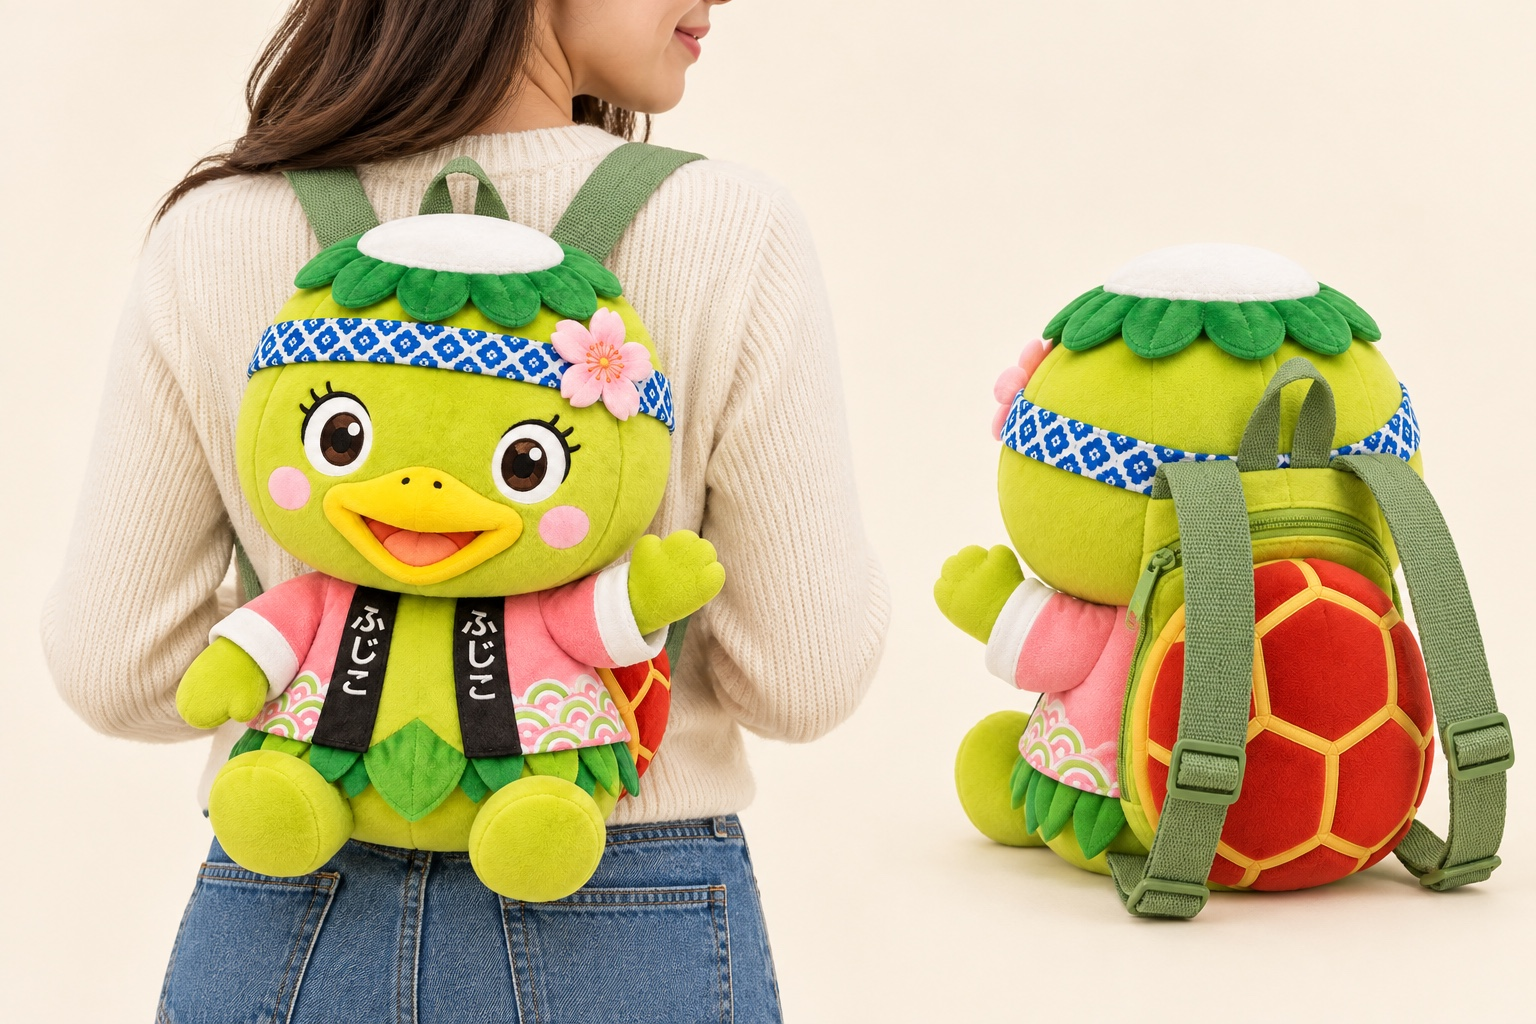
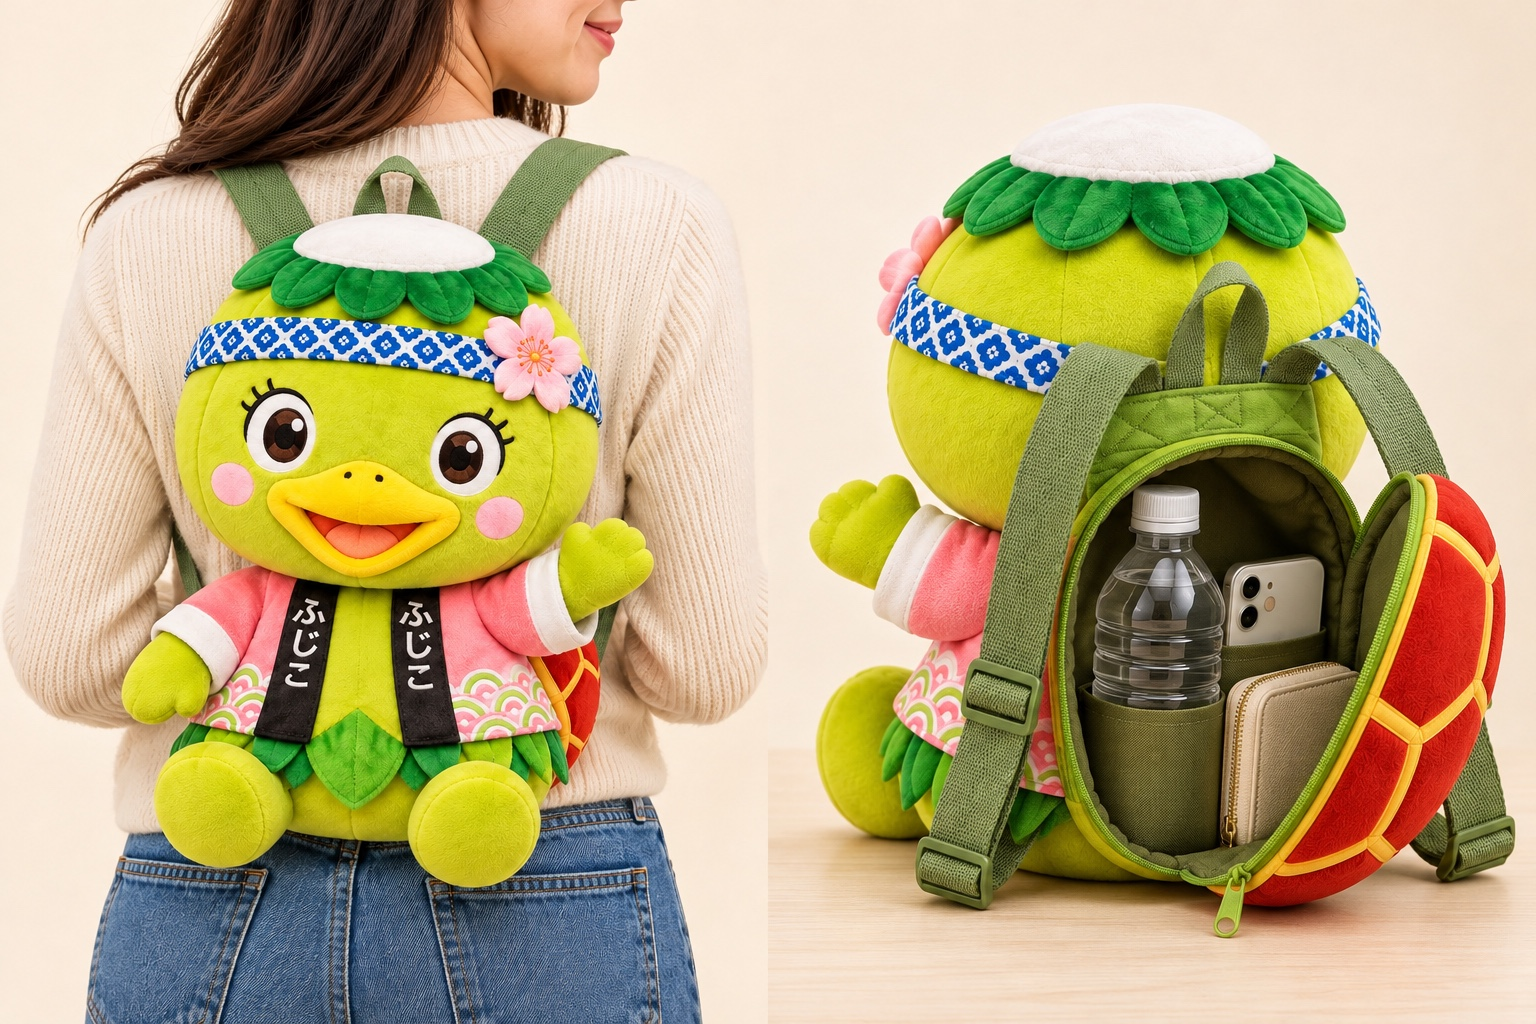
Replace Heartnet Fujiko backpack preview with supplied image

diff --git a/omise-demo/heartnet-fujiko-goods.html b/omise-demo/heartnet-fujiko-goods.html
@@ -28,4 +28,4 @@
 <h3>ふじこグッズを販売してくれるお店を募集しています</h3><p class="goods-sale-copy">ふじこのぬいぐるみ・缶バッジ・リュック・だるま。お店の一角で、志木のおみやげとして紹介してみませんか？</p><p>少量からいろいろな商品を試しながら、一緒にふじこグッズを育ててくれる販売協力店を募集します。取扱商品や販売方法などは、ご相談しながら決めていきます。</p><a class="btn secondary" href="https://line.me/ti/p/pcBfG4PH0m" target="_blank" rel="noopener noreferrer">取扱いのご相談はLINEから →</a><h3>取扱いを相談したいお店〈候補〉</h3><p class="goods-stage">以下は相談先の候補としてご紹介しているお店です。販売・取扱いが決まっているという案内ではありません。</p>
 <div class="goods-shops"><article class="goods-shop"><h3>おうちcafeパン工房</h3><p>国産小麦とホシノ天然酵母を使ったパンや焼き菓子を届けるパン工房。</p><a href="./ouchicafe.html">お店の紹介・場所を見る →</a></article><article class="goods-shop"><h3>ニュータイムス社</h3><p>出版・広告代理・地域情報誌を通じて、地域の情報を届けています。</p><a href="./newtimes.html">お店の紹介・場所を見る →</a></article></div>
 <p class="goods-stage">企画・販売協力店の募集：ハートネット志木。商品化と取扱いの準備が整い次第、販売店をご案内します。</p><div id="goods-article-sharing"></div>
-</section><nav class="panel" aria-label="この記事を読んだ後のメニュー"><a class="btn secondary" href="./heartnet.html">ハートネット志木のページへ →</a><a class="btn secondary" href="./">DXトップへ戻る →</a></nav></main><dialog id="goods-preview-dialog" aria-labelledby="goods-preview-title"><div class="goods-dialog-head"><h2 id="goods-preview-title">ぬいぐるみ</h2><button type="button" id="goods-preview-close" aria-label="画像を閉じる">閉じる ×</button></div><figure class="goods-product-figure"><img src="./goods-fujiko-plush-front.jpeg" width="1122" height="1402" alt="ふじこぬいぐるみの正面イメージ" id="goods-preview-image"><figcaption id="goods-preview-caption">ぬいぐるみ（前）</figcaption></figure><div id="goods-image-switch" aria-label="見る向きを選ぶ"><button type="button" data-goods-view="0" aria-pressed="true">前を見る</button><button type="button" data-goods-view="1" aria-pressed="false">後ろを見る</button></div><p class="goods-preview-note">開発中のイメージ見本です。商品化・仕様・価格・取扱店・販売開始日は未定です。</p></dialog><script>(function(){const dialog=document.getElementById('goods-preview-dialog'),title=document.getElementById('goods-preview-title'),caption=document.getElementById('goods-preview-caption'),image=document.getElementById('goods-preview-image'),views=document.getElementById('goods-image-switch');let opener=null,kind='plush';const products={plush:{name:'ぬいぐるみ',images:[['./goods-fujiko-plush-front.jpeg','ぬいぐるみ（前）'],['./goods-fujiko-plush-back.jpeg','ぬいぐるみ（後ろ）']]},badge:{name:'缶バッジ',images:[['./goods-fujiko-badge.jpeg','缶バッジのデザイン見本']]},backpack:{name:'リュック',images:[['./goods-fujiko-backpack.jpeg','リュックの使用・背面イメージ']]},daruma:{name:'ふじこだるま',images:[['./goods-fujiko-daruma.jpeg','ふじこだるまのイメージ']]}};function show(index){const item=products[kind].images[index];image.src=item[0];image.alt=item[1];image.removeAttribute('width');image.removeAttribute('height');caption.textContent=item[1];views.hidden=products[kind].images.length<2;views.querySelectorAll('button').forEach(function(button){button.setAttribute('aria-pressed',String(Number(button.dataset.goodsView)===index));});}document.querySelectorAll('[data-goods-kind]').forEach(function(button){button.addEventListener('click',function(){opener=button;kind=button.dataset.goodsKind;title.textContent=products[kind].name;show(0);dialog.showModal();dialog.scrollTop=0;});});views.querySelectorAll('button').forEach(function(button){button.addEventListener('click',function(){show(Number(button.dataset.goodsView));});});document.getElementById('goods-preview-close').addEventListener('click',function(){dialog.close();});dialog.addEventListener('click',function(event){if(event.target===dialog){const r=dialog.getBoundingClientRect();if(event.clientX<r.left||event.clientX>r.right||event.clientY<r.top||event.clientY>r.bottom)dialog.close();}});dialog.addEventListener('close',function(){if(opener)opener.focus();});})();</script><script>document.addEventListener('DOMContentLoaded',function(){const box=document.getElementById('goods-article-sharing');if(window.DXPostShare&&box)window.DXPostShare.mount(box,{name:'ハートネット志木',title:'ふじこグッズの販売協力店を募集しています',body:"ふじこグッズを販売してくれるお店を募集しています🥒\nぬいぐるみ・缶バッジ・リュック・ふじこだるまなど、少量からいろいろな商品を試していく企画です。\n取扱商品や販売方法は相談しながら決めていきます。ご興味のあるお店はハートネット志木へ。\n※掲載画像は開発イメージです。商品・価格・販売開始日は未定です。",shareURL:"https://ichirohns-jpg.github.io/ShikiConcierge-18/omise-demo/heartnet-fujiko-goods.html"},{heading:'この記事をSNSで共有する'});});</script></body></html>
+</section><nav class="panel" aria-label="この記事を読んだ後のメニュー"><a class="btn secondary" href="./heartnet.html">ハートネット志木のページへ →</a><a class="btn secondary" href="./">DXトップへ戻る →</a></nav></main><dialog id="goods-preview-dialog" aria-labelledby="goods-preview-title"><div class="goods-dialog-head"><h2 id="goods-preview-title">ぬいぐるみ</h2><button type="button" id="goods-preview-close" aria-label="画像を閉じる">閉じる ×</button></div><figure class="goods-product-figure"><img src="./goods-fujiko-plush-front.jpeg" width="1122" height="1402" alt="ふじこぬいぐるみの正面イメージ" id="goods-preview-image"><figcaption id="goods-preview-caption">ぬいぐるみ（前）</figcaption></figure><div id="goods-image-switch" aria-label="見る向きを選ぶ"><button type="button" data-goods-view="0" aria-pressed="true">前を見る</button><button type="button" data-goods-view="1" aria-pressed="false">後ろを見る</button></div><p class="goods-preview-note">開発中のイメージ見本です。商品化・仕様・価格・取扱店・販売開始日は未定です。</p></dialog><script>(function(){const dialog=document.getElementById('goods-preview-dialog'),title=document.getElementById('goods-preview-title'),caption=document.getElementById('goods-preview-caption'),image=document.getElementById('goods-preview-image'),views=document.getElementById('goods-image-switch');let opener=null,kind='plush';const products={plush:{name:'ぬいぐるみ',images:[['./goods-fujiko-plush-front.jpeg','ぬいぐるみ（前）'],['./goods-fujiko-plush-back.jpeg','ぬいぐるみ（後ろ）']]},badge:{name:'缶バッジ',images:[['./goods-fujiko-badge.jpeg','缶バッジのデザイン見本']]},backpack:{name:'リュック',images:[['./goods-fujiko-backpack.jpeg?v=20261107','リュックの使用・背面イメージ']]},daruma:{name:'ふじこだるま',images:[['./goods-fujiko-daruma.jpeg','ふじこだるまのイメージ']]}};function show(index){const item=products[kind].images[index];image.src=item[0];image.alt=item[1];image.removeAttribute('width');image.removeAttribute('height');caption.textContent=item[1];views.hidden=products[kind].images.length<2;views.querySelectorAll('button').forEach(function(button){button.setAttribute('aria-pressed',String(Number(button.dataset.goodsView)===index));});}document.querySelectorAll('[data-goods-kind]').forEach(function(button){button.addEventListener('click',function(){opener=button;kind=button.dataset.goodsKind;title.textContent=products[kind].name;show(0);dialog.showModal();dialog.scrollTop=0;});});views.querySelectorAll('button').forEach(function(button){button.addEventListener('click',function(){show(Number(button.dataset.goodsView));});});document.getElementById('goods-preview-close').addEventListener('click',function(){dialog.close();});dialog.addEventListener('click',function(event){if(event.target===dialog){const r=dialog.getBoundingClientRect();if(event.clientX<r.left||event.clientX>r.right||event.clientY<r.top||event.clientY>r.bottom)dialog.close();}});dialog.addEventListener('close',function(){if(opener)opener.focus();});})();</script><script>document.addEventListener('DOMContentLoaded',function(){const box=document.getElementById('goods-article-sharing');if(window.DXPostShare&&box)window.DXPostShare.mount(box,{name:'ハートネット志木',title:'ふじこグッズの販売協力店を募集しています',body:"ふじこグッズを販売してくれるお店を募集しています🥒\nぬいぐるみ・缶バッジ・リュック・ふじこだるまなど、少量からいろいろな商品を試していく企画です。\n取扱商品や販売方法は相談しながら決めていきます。ご興味のあるお店はハートネット志木へ。\n※掲載画像は開発イメージです。商品・価格・販売開始日は未定です。",shareURL:"https://ichirohns-jpg.github.io/ShikiConcierge-18/omise-demo/heartnet-fujiko-goods.html"},{heading:'この記事をSNSで共有する'});});</script></body></html>

diff --git a/omise-demo/heartnet.html b/omise-demo/heartnet.html
@@ -33,7 +33,7 @@ https://ichirohns-jpg.github.io/ShikiConcierge-18/omise-demo/heartnet.html</text
 #goods-preview-image{display:block;width:100%;height:auto;max-height:60dvh;object-fit:contain;border-radius:10px}
 #goods-preview-caption,.goods-preview-note{font-size:14px;line-height:1.7;margin:12px 0 0}.goods-preview-note{color:#63576a}
 #goods-image-switch:not([hidden]){display:flex;gap:10px;justify-content:center}#goods-image-switch button[aria-pressed="false"]{background:#eee3f2;color:#531a65}
-</style><script>(function(){const dialog=document.getElementById('goods-preview-dialog'),title=document.getElementById('goods-preview-title'),caption=document.getElementById('goods-preview-caption'),image=document.getElementById('goods-preview-image'),views=document.getElementById('goods-image-switch');let opener=null,kind='plush';const products={plush:{name:'ぬいぐるみ',images:[['./goods-fujiko-plush-front.jpeg','ぬいぐるみ（前）'],['./goods-fujiko-plush-back.jpeg','ぬいぐるみ（後ろ）']]},badge:{name:'缶バッジ',images:[['./goods-fujiko-badge.jpeg','缶バッジのデザイン見本']]},backpack:{name:'リュック',images:[['./goods-fujiko-backpack.jpeg','リュックの使用・背面イメージ']]},daruma:{name:'ふじこだるま',images:[['./goods-fujiko-daruma.jpeg','ふじこだるまのイメージ']]}};function show(index){const item=products[kind].images[index];image.src=item[0];image.alt=item[1];image.removeAttribute('width');image.removeAttribute('height');caption.textContent=item[1];views.hidden=products[kind].images.length<2;views.querySelectorAll('button').forEach(function(button){button.setAttribute('aria-pressed',String(Number(button.dataset.goodsView)===index));});}document.querySelectorAll('[data-goods-kind]').forEach(function(button){button.addEventListener('click',function(){opener=button;kind=button.dataset.goodsKind;title.textContent=products[kind].name;show(0);dialog.showModal();dialog.scrollTop=0;});});views.querySelectorAll('button').forEach(function(button){button.addEventListener('click',function(){show(Number(button.dataset.goodsView));});});document.getElementById('goods-preview-close').addEventListener('click',function(){dialog.close();});dialog.addEventListener('click',function(event){if(event.target===dialog){const r=dialog.getBoundingClientRect();if(event.clientX<r.left||event.clientX>r.right||event.clientY<r.top||event.clientY>r.bottom)dialog.close();}});dialog.addEventListener('close',function(){if(opener)opener.focus();});})();</script><script>document.addEventListener('DOMContentLoaded',function(){const box=document.getElementById('goods-article-sharing');if(window.DXPostShare&&box)window.DXPostShare.mount(box,{name:'ハートネット志木',title:'ふじこグッズの販売協力店を募集しています',body:"ふじこグッズを販売してくれるお店を募集しています🥒\nぬいぐるみ・缶バッジ・リュック・ふじこだるまなど、少量からいろいろな商品を試していく企画です。\n取扱商品や販売方法は相談しながら決めていきます。ご興味のあるお店はハートネット志木へ。\n※掲載画像は開発イメージです。商品・価格・販売開始日は未定です。",shareURL:"https://ichirohns-jpg.github.io/ShikiConcierge-18/omise-demo/heartnet-fujiko-goods.html"},{heading:'この記事をSNSで共有する'});});</script></body></html>
+</style><script>(function(){const dialog=document.getElementById('goods-preview-dialog'),title=document.getElementById('goods-preview-title'),caption=document.getElementById('goods-preview-caption'),image=document.getElementById('goods-preview-image'),views=document.getElementById('goods-image-switch');let opener=null,kind='plush';const products={plush:{name:'ぬいぐるみ',images:[['./goods-fujiko-plush-front.jpeg','ぬいぐるみ（前）'],['./goods-fujiko-plush-back.jpeg','ぬいぐるみ（後ろ）']]},badge:{name:'缶バッジ',images:[['./goods-fujiko-badge.jpeg','缶バッジのデザイン見本']]},backpack:{name:'リュック',images:[['./goods-fujiko-backpack.jpeg?v=20261107','リュックの使用・背面イメージ']]},daruma:{name:'ふじこだるま',images:[['./goods-fujiko-daruma.jpeg','ふじこだるまのイメージ']]}};function show(index){const item=products[kind].images[index];image.src=item[0];image.alt=item[1];image.removeAttribute('width');image.removeAttribute('height');caption.textContent=item[1];views.hidden=products[kind].images.length<2;views.querySelectorAll('button').forEach(function(button){button.setAttribute('aria-pressed',String(Number(button.dataset.goodsView)===index));});}document.querySelectorAll('[data-goods-kind]').forEach(function(button){button.addEventListener('click',function(){opener=button;kind=button.dataset.goodsKind;title.textContent=products[kind].name;show(0);dialog.showModal();dialog.scrollTop=0;});});views.querySelectorAll('button').forEach(function(button){button.addEventListener('click',function(){show(Number(button.dataset.goodsView));});});document.getElementById('goods-preview-close').addEventListener('click',function(){dialog.close();});dialog.addEventListener('click',function(event){if(event.target===dialog){const r=dialog.getBoundingClientRect();if(event.clientX<r.left||event.clientX>r.right||event.clientY<r.top||event.clientY>r.bottom)dialog.close();}});dialog.addEventListener('close',function(){if(opener)opener.focus();});})();</script><script>document.addEventListener('DOMContentLoaded',function(){const box=document.getElementById('goods-article-sharing');if(window.DXPostShare&&box)window.DXPostShare.mount(box,{name:'ハートネット志木',title:'ふじこグッズの販売協力店を募集しています',body:"ふじこグッズを販売してくれるお店を募集しています🥒\nぬいぐるみ・缶バッジ・リュック・ふじこだるまなど、少量からいろいろな商品を試していく企画です。\n取扱商品や販売方法は相談しながら決めていきます。ご興味のあるお店はハートネット志木へ。\n※掲載画像は開発イメージです。商品・価格・販売開始日は未定です。",shareURL:"https://ichirohns-jpg.github.io/ShikiConcierge-18/omise-demo/heartnet-fujiko-goods.html"},{heading:'この記事をSNSで共有する'});});</script></body></html>
 
 
 
